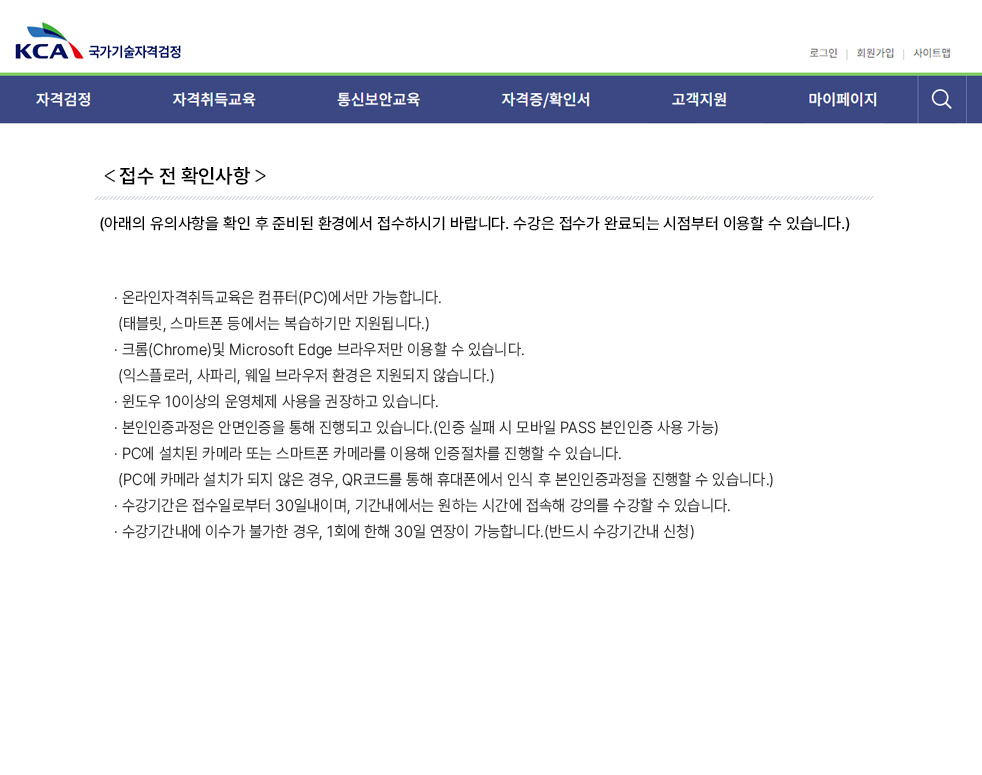
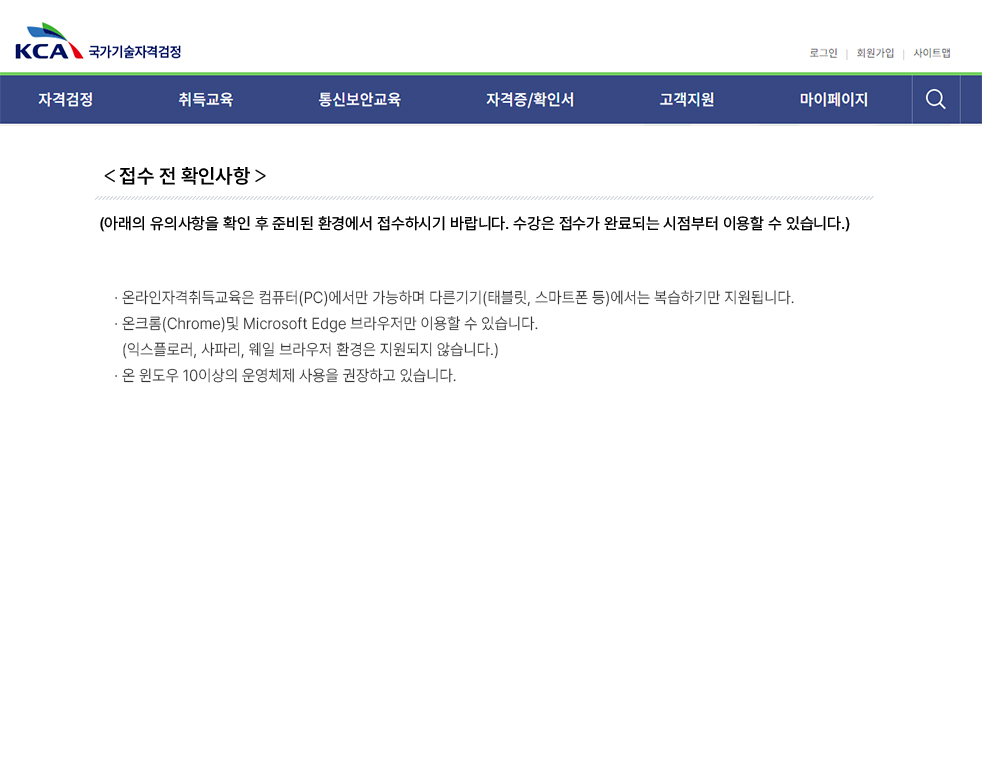
수정사항

diff --git a/html/1.수강준비/나/5p.html b/html/1.수강준비/나/5p.html
@@ -9,21 +9,7 @@
     <link rel="stylesheet" type="text/css" href="../../../assets/css/style.css">
 </head>
 <body>
-    <div class="tutorial__wrap">
-        <div class="tooltip__area--bottom"  style="display: none;">
-            <div class="logo__wrap--left">
-                <img src="../../../assets/images/logo.jpg" alt="KCA 로고">
-            </div>
-            <div class="text-guide__wrap--right">
-                <div class="text-guide">
-                    접수 전 확인사항을 검토 후  확인을 클릭해 주세요.
-                </div>
-                <div class="btn-confirm__blue-btn">
-                    <a href="4p.html" class="btn__blue-type">확인</a>
-                </div>
-            </div>
-        </div>
-        <!-- 툴팁 -->
+    <div class="tutorial__wrap" id="stage01">
         <div class="box01">
             <img src="../../../assets/images/5-1p.jpg" alt="">
         </div>
@@ -31,7 +17,7 @@
             <img src="../../../assets/images/5-2p.jpg" alt="1. 네이버에 ‘크롬 다운로드’ 를 검색해주세요.">
         </div>
         <div class="box03" style="animation-delay: 1s;opacity: 0;">
-            <a href="6p.html" class="red-link-line" style="width:82px;height:27px;left:200px;top:192px;">
+            <a href="#" class="red-link-line btn-next-stage02" style="width:82px;height:27px;left:200px;top:192px;">
                 <div class="cursor-pointer-wrap">
                     <div class="pointer" style="opacity: 1;">
                         <div class="point">&nbsp;</div>
@@ -46,6 +32,99 @@
             <img src="../../../assets/images/5-3p.jpg" alt="2. ‘구글 크롬’ 을 눌러주세요.">
         </div>
     </div>
-    <script src="../../../assets/js/script.js"></script>
+    <!-- //sgage 1======= -->
+    <div class="tutorial__wrap"  id="stage02" style="display:none;">       
+        <a href="#" class="red-link-line  btn-next-stage03" style="width:200px;height:80px;left:386px;top:483px;">
+            <div class="cursor-pointer-wrap">
+                <div class="pointer" style="display: block;opacity: 1;">
+                    <div class="point">&nbsp;</div>
+                    <div class="circle_wrap">
+                        <span class="circle"></span>
+                        <span class="circle2"></span>
+                        <span class="circle3"></span>
+                    </div>
+                </div>
+            </div>
+        </a>
+        <img src="../../../assets/images/6p.jpg" alt="크롬 브라우저 다운로드">
+    </div>
+    <!-- //sgage 2======= -->
+    <div class="tutorial__wrap"   id="stage03" style="display:none;">
+        <a href="#" class="red-link-line highlight-line1  btn-next-stage04" style="width:200px;height:80px;left: 706px;top: 243px;">
+            <div class="cursor-pointer-wrap">
+                <div class="pointer" style="display: block;opacity: 1;">
+                    <div class="point">&nbsp;</div>
+                    <div class="circle_wrap">
+                        <span class="circle"></span>
+                        <span class="circle2"></span>
+                        <span class="circle3"></span>
+                    </div>
+                </div>
+            </div>
+        </a>
+        <a href="#" class="red-link-line highlight-line2  btn-next-stage04" style="width: 258px;height: 60px;left: 116px;top: 508px;">
+            <div class="cursor-pointer-wrap">
+                <div class="pointer" style="display: block;opacity: 1;">
+                    <div class="point">&nbsp;</div>
+                    <div class="circle_wrap">
+                        <span class="circle"></span>
+                        <span class="circle2"></span>
+                        <span class="circle3"></span>
+                    </div>
+                </div>
+            </div>
+        </a>
+        <a href="#" class="red-link-line highlight-line3 btn-next-stage04" style="width: 270px; height: 170px;left: 516px;top: 523px;">
+            <div class="cursor-pointer-wrap">
+                <div class="pointer" style="display: block;right: 56px;top: 104px;opacity: 1;">
+                    <div class="point">&nbsp;</div>
+                    <div class="circle_wrap">
+                        <span class="circle"></span>
+                        <span class="circle2"></span>
+                        <span class="circle3"></span>
+                    </div>
+                </div>
+            </div>
+        </a>
+        <img src="../../../assets/images/7p.jpg" alt="크롬 브라우저 다운로드">
+    </div>
+    <!-- //sgage=======  3 -->
+    <div class="tutorial__wrap"   id="stage04" style="display:none;">
+        <a href="#" class="red-link-line highlight-line1 draw" style="border:0;width: 640px; height: 50px; left: 210px; top: 503px;">
+            <div class="cursor-pointer-wrap">
+                <div class="pointer" style="display: block;">
+                    <div class="point">&nbsp;</div>
+                    <div class="circle_wrap">
+                        <span class="circle"></span>
+                        <span class="circle2"></span>
+                        <span class="circle3"></span>
+                    </div>
+                </div>
+            </div>
+        </a>
+        <img src="../../../assets/images/8p.jpg" alt="2. 검색 창에 ‘국가기술자격검정’ 입력">
+    </div>
+    <!-- //sgage=======  4 -->
+    <script>
+        document.addEventListener('click',stageEvent);
+        function stageEvent(e){
+            e.preventDefault();
+            //console.log(e.target.parentElement)
+            const basicElm = e.target.parentElement.parentElement.parentElement.parentElement;
+            if(basicElm.classList.contains('btn-next-stage02')){
+                document.getElementById('stage01').style.display = 'none';
+                document.getElementById('stage02').style.display = 'block';
+            }
+            if(basicElm.classList.contains('btn-next-stage03')){
+                document.getElementById('stage02').style.display = 'none';
+                document.getElementById('stage03').style.display = 'block';
+            }      
+            if(basicElm.classList.contains('btn-next-stage04')){
+                document.getElementById('stage03').style.display = 'none';
+                document.getElementById('stage04').style.display = 'block';
+            }                    
+        }
+    </script>
+    <!-- <script src="../../../assets/js/script.js"></script> -->
 </body>
 </html>

diff --git a/html/1.수강준비/가/3p.html b/html/1.수강준비/가/3p.html
@@ -16,7 +16,7 @@
             </div>
             <div class="text-guide__wrap--right">
                 <div class="text-guide">
-                    접수 전 확인사항을 검토 후  확인을 클릭해 주세요.
+                    접수전 준비사항입니다. 아래의 유의사항을 확인 후 준비된 환경에서 접수하시기 바랍니다. 교육수강은 접수완료시점부터 이용할 수 있습니다.
                 </div>
                 <div class="btn-confirm__blue-btn">
                     <a href="#" class="btn__blue-type">확인</a>
@@ -25,6 +25,32 @@
         </div>
         <img src="../../../assets/images/3p_bg.jpg" alt="접수 전 확인사항">
     </div>
-    <script src="../../../assets/js/script.js"></script>
+    <script>        
+
+(function () {
+    document.addEventListener('DOMContentLoaded',function(){  
+        var array = [            
+            '크롬 브라우저 다운로드는 다음 게시물인 “크롬 다운로드 방법“에서 확인할 수 있습니다.',
+            '운영체제 확인은 [내컴퓨터(내pc)-마우스 오른쪽 클릭-속성-windows 사양]에서 확인하시기 바랍니다.'            
+        ];        
+        let c = 0;
+        let clc = 0; 
+        const msgbox = document.querySelector('.text-guide');
+        const btnNext = document.querySelector('.btn__blue-type');
+        const tooltipWrap = document.querySelector('.tooltip__area--bottom');
+        btnNext.addEventListener('click',myFunction);
+        function myFunction() {                         
+            if (c < array.length) {                
+                //newArr.push(array[c++])                
+                msgbox.innerHTML = array[c++];        
+            } else{
+                console.log('dd');
+                tooltipWrap.style.display = 'none';
+            };
+        }
+    });
+})()        
+    </script>
+    <!-- <script src="../../../assets/js/script.js"></script> -->
 </body>
 </html>

diff --git a/assets/css/style.css b/assets/css/style.css
@@ -30,7 +30,7 @@
 .logo__wrap--left {position:relative;display:table-cell;vertical-align: middle;width:195px;text-align: center;}
 .logo__wrap--left::after {content: "";display: block;position: absolute;width: 5px;height:110px;right:0;top:17px;background-color: #2a71b9;border-radius: 6px;}
 .text-guide__wrap--right {position:relative;display:table-cell;vertical-align: middle;padding:0 17px 0 46px}
-.text-guide__wrap--right  .text-guide {font-size: 18px;color:#000}
+.text-guide__wrap--right  .text-guide {font-size: 18px;color:#000;word-break: keep-all;max-width: 80%;}
 .text-guide__wrap--right  .text-guide strong {font-weight: bold;display: block;}
 .text-guide__wrap--right  .text-guide p {font-size: 14px;line-height: 26px;margin-top:25px;}
 .text-guide__wrap--right  .text-guide li {font-size: 18px;font-weight:bold;line-height: 26px;}

diff --git a/assets/js/script.js b/assets/js/script.js
@@ -42,6 +42,19 @@
             guideText[0].style.display = 'none';
             guideText[1].style.display = 'block';
         });
+
+        // document.getElementById("hide").onclick = function() {
+        //     var o = document.getElementsByClassName("details");
+        //     for ( var i = 0; i < o.length; i++ ) {
+        //         if (o[i].style.display == 'none') {
+        //             o[i].style.display = 'block';
+        //             this.innerText='hide';
+        //         } else {
+        //             o[i].style.display = 'none';
+        //             this.innerText='show';
+        //         }
+        //     }
+        
     });
 
 })()

diff --git a/html/1.수강준비/나/4p.html b/html/1.수강준비/나/4p.html
@@ -30,6 +30,6 @@
         </div>
         <img src="../../../assets/images/4p_bg.jpg" alt="지원 브라우저 확인사항">
     </div>
-    <script src="../../../assets/js/script.js"></script>
+    <!-- <script src="../../../assets/js/script.js"></script> -->
 </body>
 </html>
